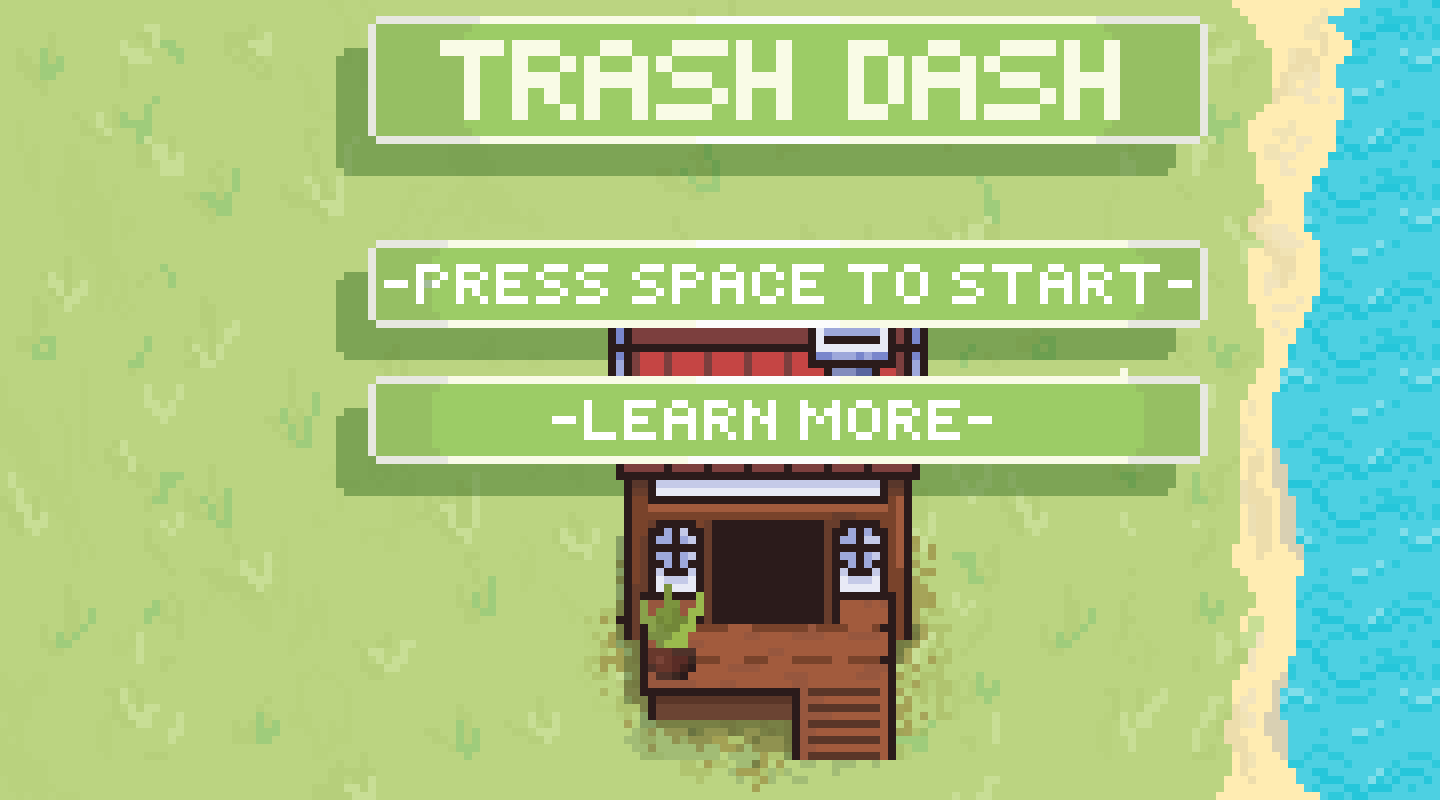
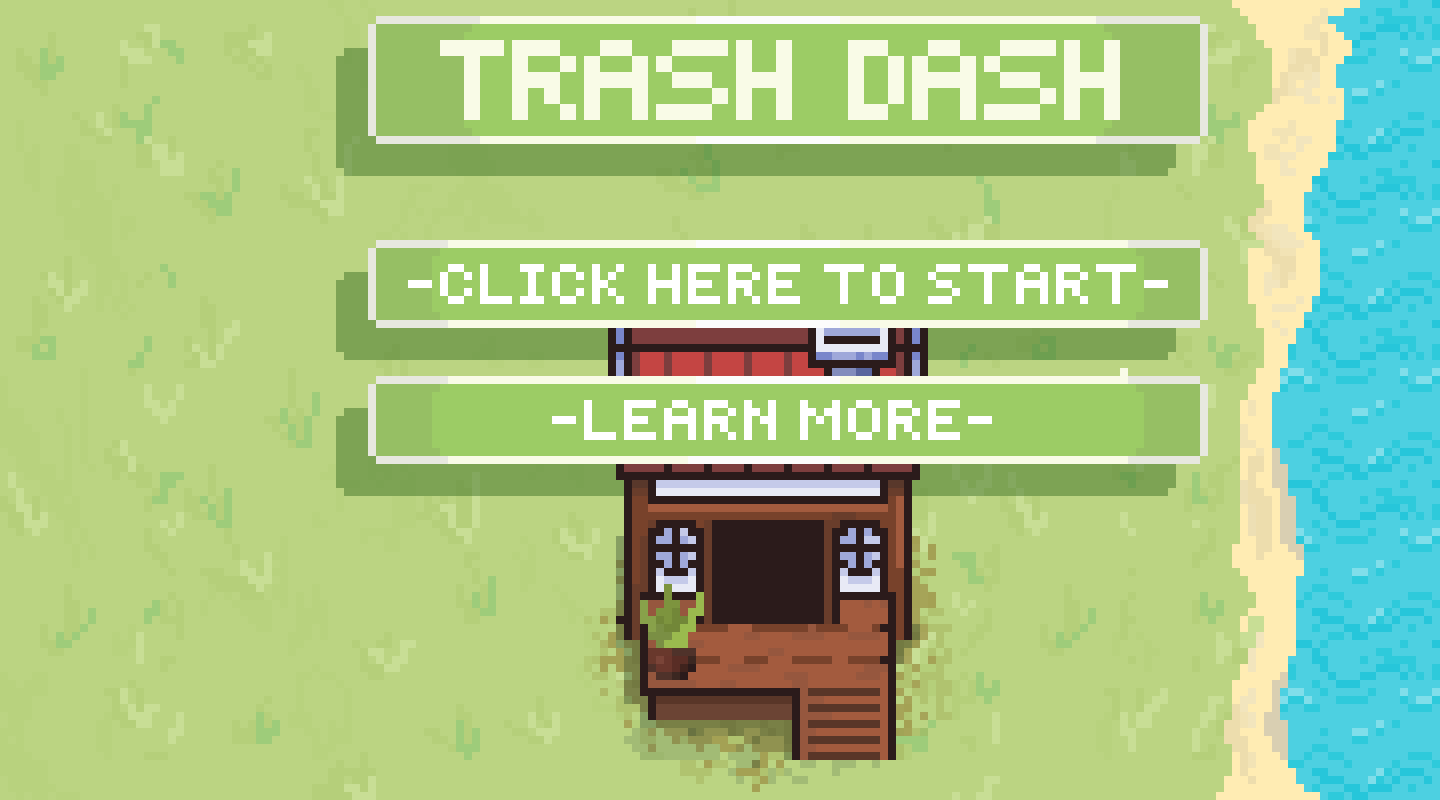
Added link to learn page. Changed start to a button you have to click instead of pressing space.

Changed region(s): [[0.25, 0.3125, 0.8438, 0.4062]]

diff --git a/main.py b/main.py
@@ -1,5 +1,6 @@
 import pygame
 import random
+import webbrowser
 from player import Player
 from trash import Trash
 
@@ -150,16 +151,27 @@ def main():
                 surface.blit(word_t, (x, y))
                 x += word_t.get_width() + 2
 
+    learn_button = (328, 300, 746, 72)
+    begin_button = (328, 191, 746, 72)
     screen.blit(title_screen, (0, 0))
+    # pygame.draw.rect(screen, (0, 0, 0), begin_button)
     pygame.display.update()
     on_title = True
     while on_title:
+        select = False
         for event in pygame.event.get():
             if event.type == pygame.QUIT:
                 return
-            if event.type == pygame.KEYDOWN and event.key == pygame.K_SPACE:
-                on_title = False
+            if event.type == pygame.MOUSEBUTTONDOWN and event.button == 1:
+                select = True
+        if select:
+            mouse_pos = (pygame.mouse.get_pos()[0], pygame.mouse.get_pos()[1], 3, 3)
+            if check_collision_list(mouse_pos, begin_button):
                 select_sound.play()
+                on_title = False
+            if check_collision_list(mouse_pos, learn_button):
+                select_sound.play()
+                webbrowser.open('https://sites.google.com/view/trashdash/learn')
 
     # main loop
     while True:
